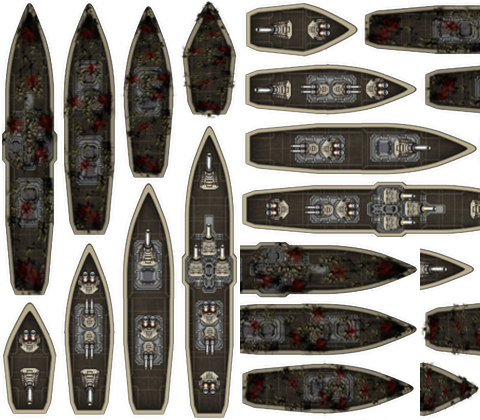
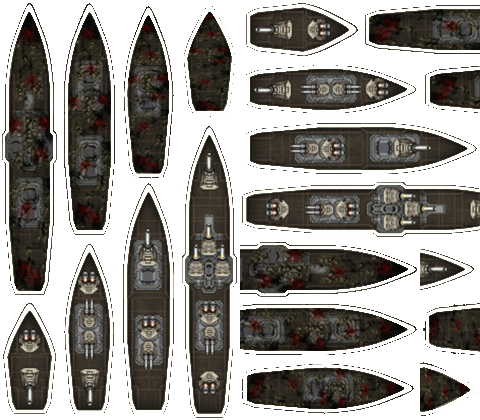
Boat color + personal CSS

diff --git a/src/MatchBundle/Resources/assets/less/game.less b/src/MatchBundle/Resources/assets/less/game.less
@@ -12,7 +12,6 @@
   left: 20px;
 }
 
-@widthBox: 20px;
 .grid {
   margin: 20px auto;
   background-color: #002a98;
@@ -30,8 +29,6 @@
   .box {
     display: block;
     float: left;
-    width: @widthBox;
-    height: @widthBox;
     padding: 0;
     .explose {
       width: 100%;
@@ -40,84 +37,8 @@
     }
   }
 }
-.boat { background-image: url('~@web/img/boat20.png'); }
-.explose { background-image: url('~@web/img/explose-20.png'); }
-.miss { background-position: (@widthBox * -11) 0; }
 .miss.animated { animation: explose-ice 2s steps(12) 1; }
-.hit { background-position: (@widthBox * 6) @widthBox; }
 .hit.animated { animation: explose-fire 2s steps(12) infinite; }
-
-@keyframes explose-ice {
-  0% { background-position: 0 0; }
-  100% { background-position: (@widthBox * -12) 0; }
-}
-@keyframes explose-fire {
-  0% { background-position: 0 @widthBox; }
-  100% { background-position: (@widthBox * 12) @widthBox; }
-}
-
-.img1 { background-position: (@widthBox * 0) (@widthBox * 0); }
-.img2 { background-position: (@widthBox * -1) (@widthBox * 0); }
-.img3 { background-position: (@widthBox * -2) (@widthBox * 0); }
-.img4 { background-position: (@widthBox * -3) (@widthBox * 0); }
-.img5 { background-position: (@widthBox * -4) (@widthBox * 0); }
-.img6 { background-position: (@widthBox * -5) (@widthBox * 0); }
-.img7 { background-position: (@widthBox * -6) (@widthBox * 0); }
-.img8 { background-position: (@widthBox * -7) (@widthBox * 0); }
-
-.img9 { background-position: (@widthBox * 0) (@widthBox * -1); }
-.img10 { background-position: (@widthBox * -1) (@widthBox * -1); }
-.img11 { background-position: (@widthBox * -2) (@widthBox * -1); }
-.img12 { background-position: (@widthBox * -3) (@widthBox * -1); }
-.img13 { background-position: (@widthBox * -4) (@widthBox * -1); }
-.img14 { background-position: (@widthBox * -5) (@widthBox * -1); }
-.img15 { background-position: (@widthBox * -6) (@widthBox * -1); }
-.img16 { background-position: (@widthBox * -7) (@widthBox * -1); }
-
-.img17 { background-position: (@widthBox * 0) (@widthBox * -2); }
-.img18 { background-position: (@widthBox * -1) (@widthBox * -2); }
-.img19 { background-position: (@widthBox * -2) (@widthBox * -2); }
-.img20 { background-position: (@widthBox * -3) (@widthBox * -2); }
-.img21 { background-position: (@widthBox * -4) (@widthBox * -2); }
-.img22 { background-position: (@widthBox * -5) (@widthBox * -2); }
-.img23 { background-position: (@widthBox * -6) (@widthBox * -2); }
-.img24 { background-position: (@widthBox * -7) (@widthBox * -2); }
-
-.img25 { background-position: (@widthBox * 0) (@widthBox * -3); }
-.img26 { background-position: (@widthBox * -1) (@widthBox * -3); }
-.img27 { background-position: (@widthBox * -2) (@widthBox * -3); }
-.img28 { background-position: (@widthBox * -3) (@widthBox * -3); }
-.img29 { background-position: (@widthBox * -4) (@widthBox * -3); }
-.img30 { background-position: (@widthBox * -5) (@widthBox * -3); }
-.img31 { background-position: (@widthBox * -6) (@widthBox * -3); }
-.img32 { background-position: (@widthBox * -7) (@widthBox * -3); }
-
-.img33 { background-position: (@widthBox * 0) (@widthBox * -4); }
-.img34 { background-position: (@widthBox * -1) (@widthBox * -4); }
-.img35 { background-position: (@widthBox * -2) (@widthBox * -4); }
-.img36 { background-position: (@widthBox * -3) (@widthBox * -4); }
-.img37 { background-position: (@widthBox * -4) (@widthBox * -4); }
-.img38 { background-position: (@widthBox * -5) (@widthBox * -4); }
-.img39 { background-position: (@widthBox * -6) (@widthBox * -4); }
-.img40 { background-position: (@widthBox * -7) (@widthBox * -4); }
-
-.img41 { background-position: (@widthBox * 0) (@widthBox * -5); }
-.img42 { background-position: (@widthBox * -1) (@widthBox * -5); }
-.img43 { background-position: (@widthBox * -2) (@widthBox * -5); }
-.img44 { background-position: (@widthBox * -3) (@widthBox * -5); }
-.img45 { background-position: (@widthBox * -4) (@widthBox * -5); }
-.img46 { background-position: (@widthBox * -5) (@widthBox * -5); }
-.img47 { background-position: (@widthBox * -6) (@widthBox * -5); }
-.img48 { background-position: (@widthBox * -7) (@widthBox * -5); }
-
-.img49 { background-position: (@widthBox * 0) (@widthBox * -6); }
-.img50 { background-position: (@widthBox * -1) (@widthBox * -6); }
-.img51 { background-position: (@widthBox * -2) (@widthBox * -6); }
-.img52 { background-position: (@widthBox * -3) (@widthBox * -6); }
-.img53 { background-position: (@widthBox * -4) (@widthBox * -6); }
-.img54 { background-position: (@widthBox * -5) (@widthBox * -6); }
-.img55 { background-position: (@widthBox * -6) (@widthBox * -6); }
-.img56 { background-position: (@widthBox * -7) (@widthBox * -6); }
 
 .modal-bg {
   top: 0;

diff --git a/src/MatchBundle/Resources/assets/js/match/components/Grid.vue b/src/MatchBundle/Resources/assets/js/match/components/Grid.vue
@@ -34,7 +34,6 @@
             ...mapState([
                 'status',
                 'grid',
-                'size',
                 'boxSize',
                 'me',
                 'tour',
@@ -176,14 +175,6 @@
                     store.commit(MUTATION.SET_STATUS, "Waiting shoot of " + players.join(', '))
                 }
             },
-            // grid size => update CSS
-            size(size) {
-                updateGridSize(size, this.boxSize)
-            },
-            // box size => update CSS
-            boxSize(size) {
-                updateGridSize(this.size, size)
-            },
         },
         mounted() {
             // Disable select
@@ -199,28 +190,6 @@
             // Show/Hide boat
             $(window).on('keyup', hideShowBoats)
         },
-    }
-
-    /**
-     * Update the grid CSS with new size
-     * @param gridSize
-     * @param boxSize
-     */
-    function updateGridSize(gridSize, boxSize) {
-        // Grid CSS
-        let sizeCss = (gridSize * boxSize) + 'px'
-        $('#grid').css({
-            width: sizeCss,
-            height: sizeCss,
-            minWidth: sizeCss,
-            minHeight: sizeCss,
-        })
-
-        // Row CSS
-        $('.grid-line').css({
-            width: sizeCss,
-            minWidth: sizeCss,
-        })
     }
 
     /**

diff --git a/src/MatchBundle/Controller/BoatController.php b/src/MatchBundle/Controller/BoatController.php
@@ -1,0 +1,154 @@
+<?php
+
+namespace MatchBundle\Controller;
+
+use Intervention\Image\ImageManager;
+use MatchBundle\Entity\Game;
+use Symfony\Bundle\FrameworkBundle\Controller\Controller;
+use Symfony\Component\HttpFoundation\BinaryFileResponse;
+use Symfony\Component\HttpFoundation\Request;
+use Symfony\Component\HttpFoundation\Response;
+use Symfony\Component\Routing\Annotation\Route;
+
+/**
+ * Class BoatController
+ * @package MatchBundle\Controller
+ */
+class BoatController extends Controller
+{
+    /**
+     * Dynamique CSS
+     * @param Game $game
+     *
+     * @Route(
+     *     name="match.css",
+     *     path="/game/{slug}.css",
+     *     methods={"GET"},
+     *     requirements={"slug": "([0-9A-Za-z\-]+)"})
+     * @return Response
+     */
+    public function cssAction(Game $game)
+    {
+        // Set text/css response
+        $response = new Response();
+        $response->headers->set('Content-Type', 'text/css');
+
+        // View with CSS response
+        return $this->render('@Match/Match/game.css.twig', [
+            'widthBox' => 20,
+            'game' => $game,
+        ], $response);
+    }
+
+    /**
+     * Get the boat image
+     * @param Request $request
+     * @param string  $color
+     * @param integer $size
+     *
+     * @Route(
+     *     name="match.boat.img",
+     *     path="/img/boats/{color}-{size}.png",
+     *     methods={"GET"},
+     *     requirements={"color": "([0-9A-F]{6})", "size": "([2-6]0)"},
+     *     defaults={"size": "60"})
+     * @return Response
+     */
+    public function boatImageAction(Request $request, $color, $size = 60)
+    {
+        // Path
+        $rootDir = $this->get('kernel')->getRootDir();
+        $sourcePath = realpath($rootDir.'/../web/img/boat.png');
+
+        $destDir = realpath($rootDir.'/../var/boats');
+        $destPath = "$destDir/$color-$size.png";
+
+        // Create img
+        if (!file_exists($destPath)) {
+            $this->changeColor($sourcePath, $destPath, $color, $size);
+        }
+
+        // Response
+        $response = new BinaryFileResponse($destPath);
+        $filemtime = new \DateTime();
+        $filemtime->setTimestamp(filemtime($destPath));
+        $response
+            ->setLastModified($filemtime)
+            ->setEtag(md5_file($destPath))
+            ->isNotModified($request);
+
+        return $response;
+    }
+
+    /**
+     * Get the explose image
+     * @param Request $request
+     * @param integer $size
+     *
+     * @Route(
+     *     name="match.explose.img",
+     *     path="/img/explose-{size}.png",
+     *     methods={"GET"},
+     *     requirements={"size": "(^[2-6]0$)"},
+     *     defaults={"size": "60"})
+     * @return Response
+     */
+    public function exploseImageAction(Request $request, $size = 60)
+    {
+        // Path
+        $rootDir = $this->get('kernel')->getRootDir();
+        $sourcePath = realpath($rootDir.'/../web/img/explose.png');
+
+        $destDir = realpath($rootDir.'/../var/boats');
+        $destPath = "$destDir/explose-$size.png";
+
+        // Create img
+        if (!file_exists($destPath)) {
+            $manager = new ImageManager(['driver' => 'gd']);
+            $image = $manager->make($sourcePath);
+            $image
+                ->resize(12 * $size, 2 * $size) // 12x2 : number of sprite in source img
+                ->save($destPath)
+                ->destroy();
+        }
+
+        // Response
+        $response = new BinaryFileResponse($destPath);
+        $filemtime = new \DateTime();
+        $filemtime->setTimestamp(filemtime($destPath));
+        $response
+            ->setLastModified($filemtime)
+            ->setEtag(md5_file($destPath))
+            ->isNotModified($request);
+
+        return $response;
+    }
+
+    /**
+     * Change color and resize
+     * @param string $source Source path img
+     * @param string $destPath Dest path img
+     * @param string $color Color
+     * @param integer $size Size of box
+     */
+    private function changeColor($source, $destPath, $color, $size)
+    {
+        // Dest color
+        $red = hexdec(substr($color, 0, 2));
+        $green = hexdec(substr($color, 2, 2));
+        $blue = hexdec(substr($color, 4, 2));
+
+        // Change color
+        $img = imagecreatefrompng($source);
+        $white = imagecolorclosest($img, 255, 255, 255);
+        imagecolorset($img, $white, $red, $green, $blue);
+
+        // Resize
+        $manager = new ImageManager(['driver' => 'gd']);
+        $image = $manager->make($img);
+        $image
+            ->resize(8 * $size, 7 * $size) // 8x7 : number of sprite in source img
+            ->save($destPath)
+            ->destroy();
+    }
+}

diff --git a/TODO.md b/TODO.md
@@ -19,7 +19,7 @@ TODO
     - [ ] Rocket img
     - [ ] Can change box size
     - [ ] Penalty
-    - [ ] Boat color
+    - [X] Boat color
     - [ ] ISO view
     - [ ] Display grid (optional)
     - [ ] Shortcuts
